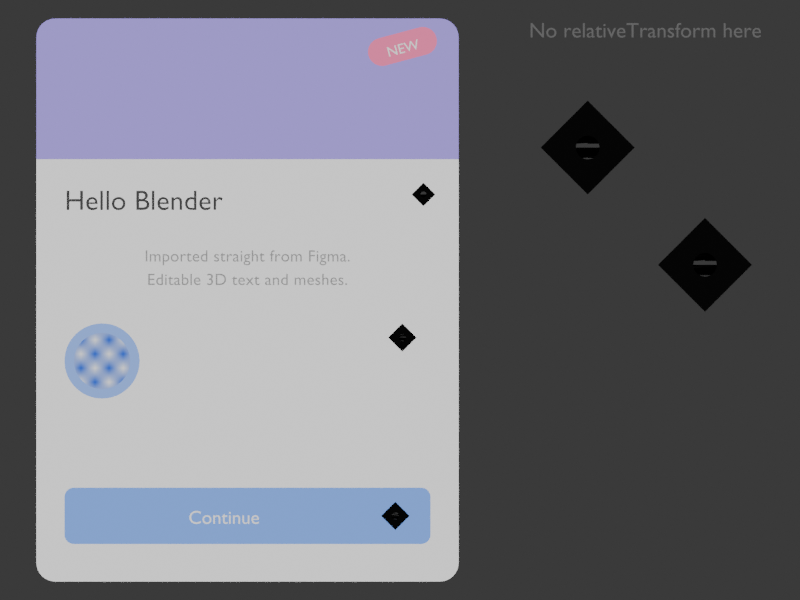
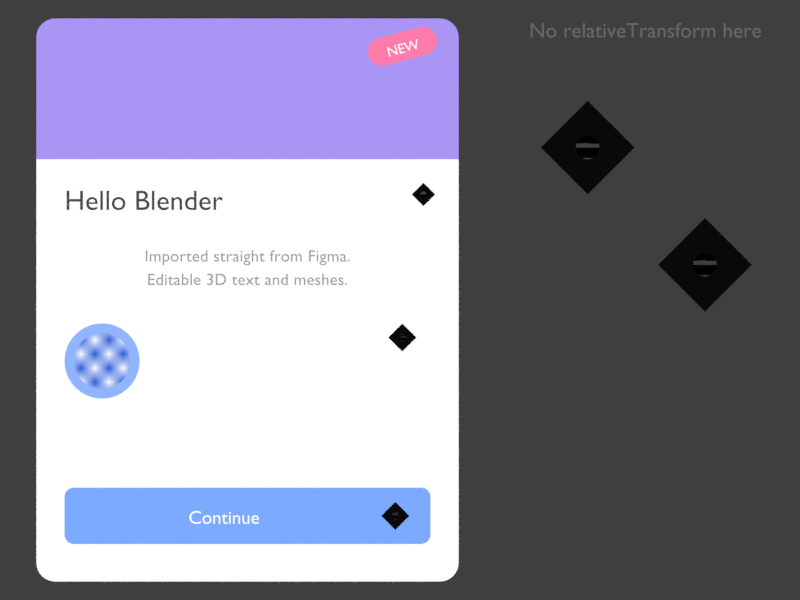
Test Bevel-modifier corners and curve ellipses; re-render docs image
Rect assertions check the Corner Radius Bevel modifier (width, segments,
per-corner vertex bevel weights, tl/tr/br/bl vertex order, evaluated
vertex count and dimensions) instead of baked vertex counts, including a
per-corner + clamping + zero-radius unit test on the helpers and the
corner_segments option. Ellipse assertions check for a 2D CURVE with fill
BOTH, one cyclic 4-point Bezier spline and matching dimensions. SVG icon
children must keep scale 1 (sizing lives on the parent Empty).

docs/render.png re-rendered headlessly (Cycles CPU) from the same fixture
and camera; rounded corners, the circular avatar and photo still render.

Claude-Session: https://claude.ai/code/session_016ouLMi39x8sZtzVC7QEyzA

diff --git a/tests/test_builder_bpy.py b/tests/test_builder_bpy.py
@@ -20,7 +20,7 @@ sys.path.insert(0, os.path.dirname(HERE))
 
 try:
     import bpy  # noqa: F401
-    from mathutils import Vector
+    from mathutils import Matrix, Vector
 except ImportError:  # pragma: no cover
     bpy = None
 
@@ -65,13 +65,15 @@ class BuilderTests(unittest.TestCase):
     def tearDown(self):
         shutil.rmtree(self.tmp, ignore_errors=True)
 
-    def _build(self, icon_mode, orientation="XZ", center=False, icon_format=None, font_override=None):
+    def _build(self, icon_mode, orientation="XZ", center=False, icon_format=None, font_override=None, **extra):
         from figma_to_blender import builder
 
         fmt = icon_format or ("svg" if icon_mode == "SVG" else "png")
         make_bundle(self.tmp, icon_format=fmt, font_override=font_override)
         scene = load_scene(self.tmp)
-        opts = builder.BuildOptions(scale=0.001, depth_step=0.0005, icon_mode=icon_mode, plane_orientation=orientation, center=center)
+        opts = builder.BuildOptions(
+            scale=0.001, depth_step=0.0005, icon_mode=icon_mode, plane_orientation=orientation, center=center, **extra
+        )
         report = builder.build_scene(scene, self.tmp, opts)
         return scene, report, opts
 
@@ -88,8 +90,8 @@ class BuilderTests(unittest.TestCase):
         curves = [o for o in report.objects if o.type == "CURVE"]
         empties = [o for o in report.objects if o.type == "EMPTY"]
         self.assertEqual(len(fonts), 5)
-        self.assertEqual(len(meshes), 6)  # 4 rects + ellipse + image plane
-        self.assertEqual(len(curves), 5 * 2)  # fixture SVG has 2 shapes, 5 icons
+        self.assertEqual(len(meshes), 5)  # 4 rects + image plane (ellipse is a curve)
+        self.assertEqual(len(curves), 5 * 2 + 1)  # fixture SVG has 2 shapes, 5 icons, + ellipse curve
         self.assertEqual(len(empties), 5 + 5)  # groups + icon roots
         for ob in report.objects:
             self.assertIn(coll, ob.users_collection)
@@ -109,11 +111,19 @@ class BuilderTests(unittest.TestCase):
         # the importer's SVG fill colours are preserved
         mats = {m.name for o in children for m in o.data.materials}
         self.assertTrue(mats)
+        # non-destructive: the icon is sized through the parent Empty's transform, the
+        # curve data / child transforms are left exactly as the importer made them
+        self.assertNotAlmostEqual(arrow.matrix_world.to_scale().x, 1.0, places=3)
+        for child in children:
+            self.assertEqual(tuple(child.scale), (1.0, 1.0, 1.0))
+            self.assertEqual(child.matrix_parent_inverse, Matrix.Identity(4))
 
     def test_plane_mode_objects(self):
         scene, report, _ = self._build("PLANE")
         self.assertEqual(report.counts["icon"], 5)
-        self.assertFalse([o for o in report.objects if o.type == "CURVE"])
+        # no icon curves in PLANE mode (the ellipse curve is unrelated to icon mode)
+        self.assertFalse([o for o in report.objects if o.type == "CURVE" and o.get("figma_kind") != "ellipse"])
+        self.assertEqual(len([o for o in report.objects if o.type == "CURVE"]), 1)
         arrow = self._by_name(report, "Arrow")
         self.assertEqual(arrow.type, "MESH")
         lo, hi = obj_bbox([arrow])
@@ -228,12 +238,129 @@ class BuilderTests(unittest.TestCase):
         self.assertIsNot(button.data.materials[0], amat)  # same colour, different alpha
         header = self._by_name(report, "Header")
         self.assertTrue(header["figma_fill_approx"])
-        # rounded corners: header has 2 rounded + 2 sharp corners
-        self.assertEqual(len(header.data.vertices), 2 * 9 + 2)
+        # the ellipse is a filled curve carrying the same flat material
+        ellipse = self._by_name(report, "Avatar bg")
+        self.assertEqual(ellipse.type, "CURVE")
+        self.assertIs(ellipse.data.materials[0], amat)
+
+    # -- non-destructive shapes ----------------------------------------------
+
+    def _corner_modifier(self, ob):
+        mods = [m for m in ob.modifiers if m.type == "BEVEL"]
+        self.assertEqual(len(mods), 1, "expected exactly one Bevel modifier on %s" % ob.name)
+        mod = mods[0]
+        self.assertEqual(mod.name, "Corner Radius")
+        self.assertEqual(mod.affect, "VERTICES")
+        self.assertEqual(mod.limit_method, "WEIGHT")
+        self.assertEqual(mod.offset_type, "OFFSET")
+        return mod
+
+    def _evaluated(self, ob):
+        bpy.context.view_layer.update()
+        return ob.evaluated_get(bpy.context.evaluated_depsgraph_get())
+
+    def test_rect_is_plane_with_corner_radius_modifier(self):
+        from figma_to_blender import builder
+
+        scene, report, _ = self._build("SVG")
+        header = self._by_name(report, "Header")
+        # the mesh itself stays a sharp 4-vertex quad with UVs, object scale untouched
+        self.assertEqual(header.type, "MESH")
+        self.assertEqual(len(header.data.vertices), 4)
         self.assertEqual(len(header.data.polygons), 1)
         self.assertTrue(header.data.uv_layers)
+        self.assertEqual(tuple(header.scale), (1.0, 1.0, 1.0))
+        self.assertAlmostEqual(header.dimensions.x, 0.360, places=6)
+        self.assertAlmostEqual(header.dimensions.y, 0.120, places=6)
+        # vertex order is Figma's tl, tr, br, bl (local frame: x right, y up)
+        co = [tuple(round(c, 6) for c in v.co) for v in header.data.vertices]
+        self.assertEqual(co, [(-0.18, 0.06, 0.0), (0.18, 0.06, 0.0), (0.18, -0.06, 0.0), (-0.18, -0.06, 0.0)])
+        # rectangleCornerRadii [16, 16, 0, 0] -> width 16 px, weights per corner
+        mod = self._corner_modifier(header)
+        self.assertAlmostEqual(mod.width, 0.016, places=6)
+        self.assertEqual(mod.segments, 8)
+        self.assertEqual(builder.vertex_bevel_weights(header.data), [1.0, 1.0, 0.0, 0.0])
+        # the evaluated mesh has 2 rounded (segments + 1 verts) + 2 sharp corners and keeps its UVs and size
+        ev = self._evaluated(header)
+        self.assertEqual(len(ev.data.vertices), 2 * 9 + 2)
+        self.assertEqual(len(ev.data.polygons), 1)
+        self.assertTrue(ev.data.uv_layers)
+        self.assertAlmostEqual(ev.dimensions.x, 0.360, places=6)
+        # uniform cornerRadius -> every corner weight 1
+        card = self._by_name(report, "Card (background)")
+        mod = self._corner_modifier(card)
+        self.assertAlmostEqual(mod.width, 0.016, places=6)
+        self.assertEqual(builder.vertex_bevel_weights(card.data), [1.0] * 4)
+        self.assertEqual(len(self._evaluated(card).data.vertices), 4 * 9)
+        button = self._by_name(report, "Button (background)")
+        self.assertAlmostEqual(self._corner_modifier(button).width, 0.008, places=6)
+        # image plane: plain textured quad, radius 24 on a 48 px photo is clamped to min(w, h) / 2
+        photo = self._by_name(report, "Photo")
+        self.assertEqual(len(photo.data.vertices), 4)
+        self.assertAlmostEqual(self._corner_modifier(photo).width, 0.024, places=6)
+        self.assertAlmostEqual(self._evaluated(photo).dimensions.x, 0.048, places=6)
+        self.assertEqual(photo.data.materials[0].node_tree.nodes["Image Texture"].type, "TEX_IMAGE")
+
+    def test_corner_segments_option(self):
+        scene, report, _ = self._build("SVG", corner_segments=4)
+        header = self._by_name(report, "Header")
+        self.assertEqual(self._corner_modifier(header).segments, 4)
+        self.assertEqual(len(self._evaluated(header).data.vertices), 2 * 5 + 2)
+
+    def test_per_corner_weights_and_zero_radius(self):
+        from figma_to_blender import builder
+
+        mesh = builder.plane_mesh("sq", 0.2, 0.1)
+        ob = bpy.data.objects.new("sq", mesh)
+        bpy.context.scene.collection.objects.link(ob)
+        # tl 0.01, tr 0.05, br 0.02, bl 0.5 (clamped to min(w, h) / 2 = 0.05)
+        mod = builder.add_corner_radius_modifier(ob, 0.2, 0.1, [0.01, 0.05, 0.02, 0.5], segments=6)
+        self.assertAlmostEqual(mod.width, 0.05, places=6)
+        self.assertEqual(mod.segments, 6)
+        weights = builder.vertex_bevel_weights(mesh)
+        self.assertAlmostEqual(weights[0], 0.2, places=6)  # tl
+        self.assertAlmostEqual(weights[1], 1.0, places=6)  # tr
+        self.assertAlmostEqual(weights[2], 0.4, places=6)  # br
+        self.assertAlmostEqual(weights[3], 1.0, places=6)  # bl
+        ev = self._evaluated(ob)
+        self.assertEqual(len(ev.data.vertices), 4 * 7)
+        # the rounded top-right corner no longer reaches the sharp corner point
+        xs = [v.co for v in ev.data.vertices]
+        self.assertFalse(any(abs(c.x - 0.1) < 1e-9 and abs(c.y - 0.05) < 1e-9 for c in xs))
+        # no radius at all: modifier present with width 0 and weights 1 so it can be dialled in later
+        mesh2 = builder.plane_mesh("sharp", 0.2, 0.1)
+        ob2 = bpy.data.objects.new("sharp", mesh2)
+        bpy.context.scene.collection.objects.link(ob2)
+        mod2 = builder.add_corner_radius_modifier(ob2, 0.2, 0.1, None)
+        self.assertEqual(mod2.width, 0.0)
+        self.assertEqual(builder.vertex_bevel_weights(mesh2), [1.0] * 4)
+        self.assertEqual(len(self._evaluated(ob2).data.vertices), 4)
+        mod2.width = 0.03
+        self.assertEqual(len(self._evaluated(ob2).data.vertices), 4 * 9)
+
+    def test_ellipse_is_filled_curve(self):
+        scene, report, _ = self._build("SVG")
         ellipse = self._by_name(report, "Avatar bg")
-        self.assertEqual(len(ellipse.data.vertices), 64)
+        self.assertEqual(ellipse.type, "CURVE")
+        cu = ellipse.data
+        self.assertEqual(cu.dimensions, "2D")
+        self.assertEqual(cu.fill_mode, "BOTH")
+        self.assertEqual(cu.resolution_u, 24)
+        self.assertEqual(len(cu.splines), 1)
+        self.assertEqual(cu.splines[0].type, "BEZIER")
+        self.assertTrue(cu.splines[0].use_cyclic_u)
+        self.assertEqual(len(cu.splines[0].bezier_points), 4)
+        self.assertEqual(tuple(ellipse.scale), (1.0, 1.0, 1.0))
+        # 64 x 64 px -> 0.064 m, sized through the control points
+        self.assertAlmostEqual(ellipse.dimensions.x, 0.064, places=6)
+        self.assertAlmostEqual(ellipse.dimensions.y, 0.064, places=6)
+        ev = self._evaluated(ellipse)
+        me = ev.to_mesh()
+        self.assertGreater(len(me.polygons), 0)
+        ev.to_mesh_clear()
+        # centred on the node: Avatar group at Card(100,200)+(24,260) = (124,460), 64x64 -> centre (156, 492)
+        self.assertAlmostEqual(ellipse.location.x, 0.156, places=6)
+        self.assertAlmostEqual(ellipse.location.z, -0.492, places=6)
 
     def test_missing_asset_is_reported_not_fatal(self):
         from figma_to_blender import builder
